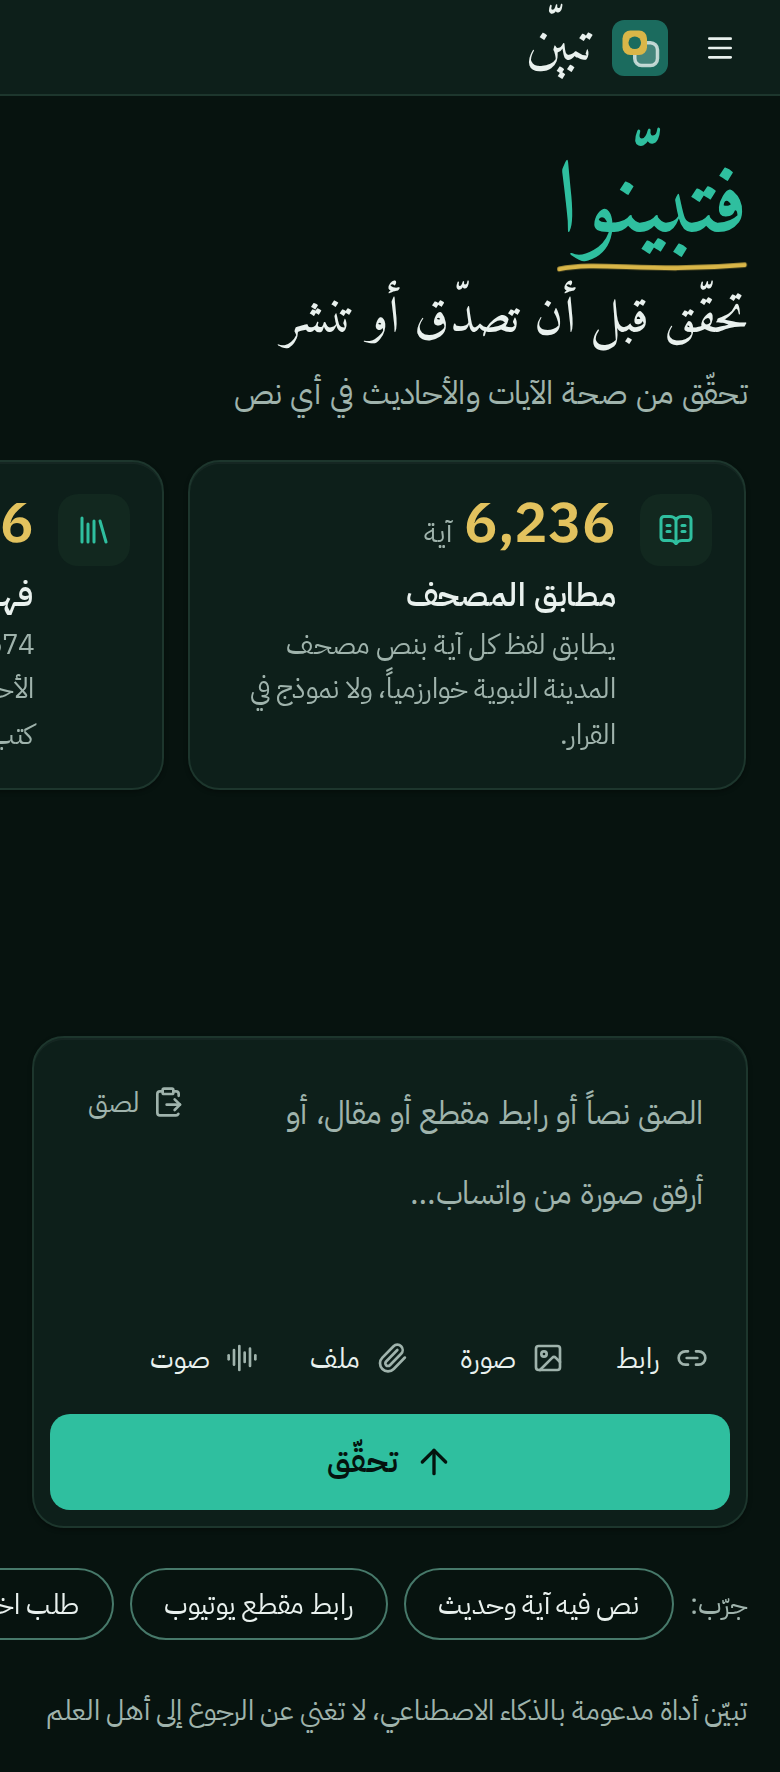
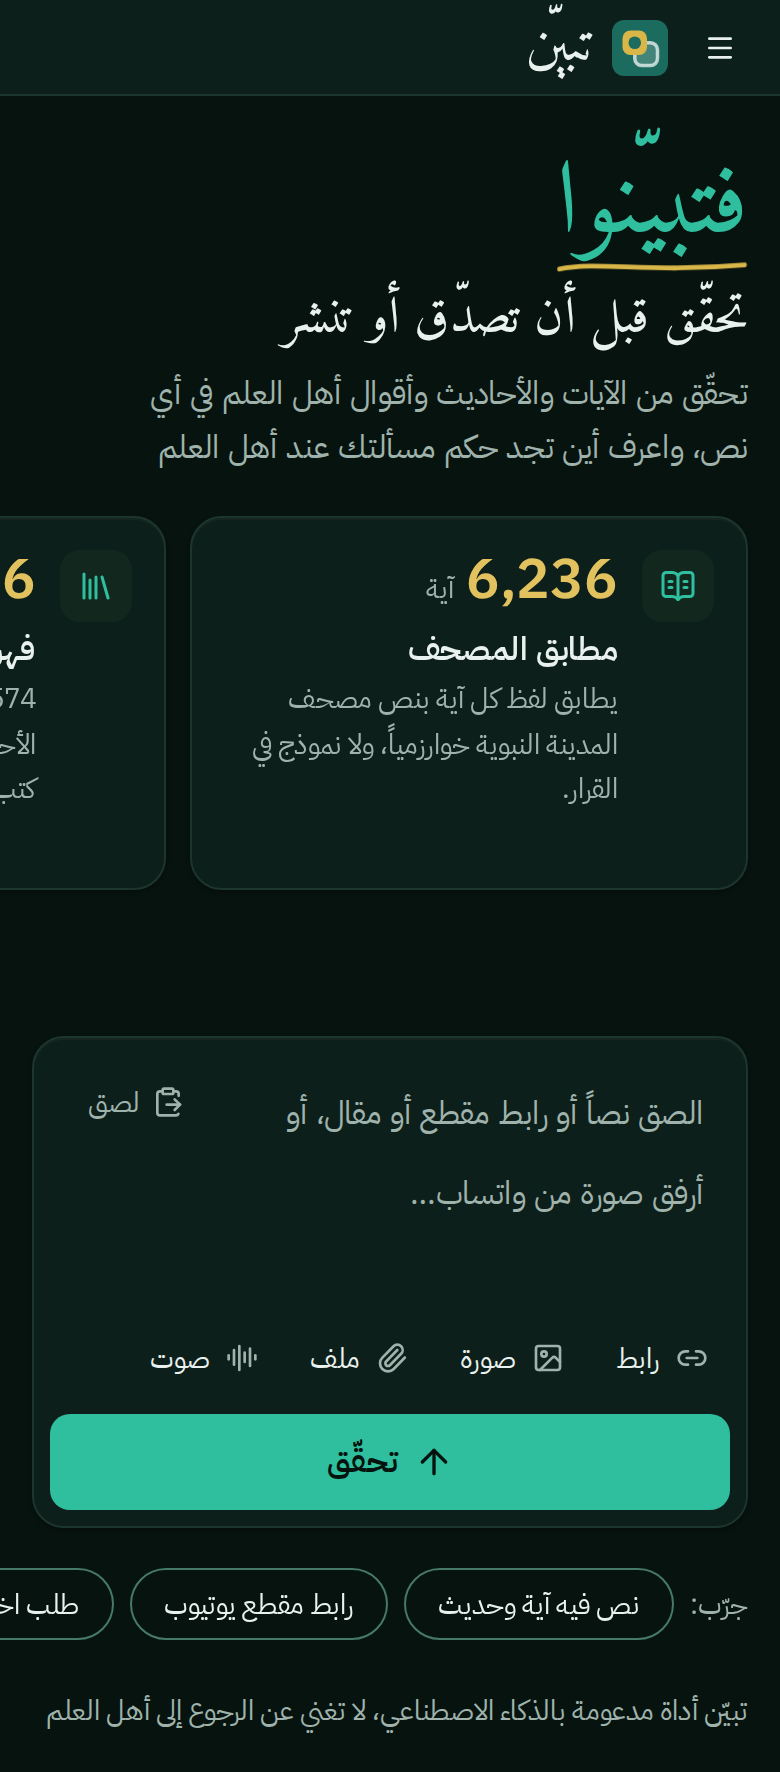
feat(home): two more cards — the scholars' sayings on Shamela, and where to find a ruling (four references)
The desktop column holds six cards, compact (the line in two lines, whole on
hover); the phone row scrolls as before.

Claude-Session: https://claude.ai/code/session_01WkLzYHrQZVwHgWeRF86dxo

diff --git a/frontend/src/components/home/hero.tsx b/frontend/src/components/home/hero.tsx
@@ -1,4 +1,4 @@
-import { BookOpenText, Library, ScrollText, Sparkles } from 'lucide-react'
+import { BookOpenText, GraduationCap, Library, LibraryBig, ScrollText, Sparkles } from 'lucide-react'
 import type { CSSProperties } from 'react'
 
 import { useMediaQuery } from '@/hooks/use-media-query'
@@ -101,6 +101,22 @@ export function EngineCards({ engines, className }: { engines: Engines | undefin
       title: h.gradings.title,
       line: engines.live_gradings ? h.gradings.live : h.gradings.stored,
     },
+    {
+      id: 'shamela',
+      icon: LibraryBig,
+      figure: h.shamela.figure,
+      unit: h.shamela.unit,
+      title: h.shamela.title,
+      line: h.shamela.body,
+    },
+    {
+      id: 'referral',
+      icon: GraduationCap,
+      figure: '4',
+      unit: h.referral.unit,
+      title: h.referral.title,
+      line: h.referral.body,
+    },
   ]
 
   return (
@@ -108,7 +124,7 @@ export function EngineCards({ engines, className }: { engines: Engines | undefin
       <ul
         tabIndex={scrolls ? 0 : undefined}
         aria-label={scrolls ? h.enginesTitle : undefined}
-        className="scroll-row -mx-4 flex snap-x snap-mandatory gap-3 px-4 pb-3 md:mx-0 md:grid md:grid-cols-2 md:gap-4 md:overflow-visible md:px-0 md:pb-0 xl:flex xl:flex-col xl:gap-4"
+        className="scroll-row -mx-4 flex snap-x snap-mandatory gap-3 px-4 pb-3 md:mx-0 md:grid md:grid-cols-2 md:gap-4 md:overflow-visible md:px-0 md:pb-0 xl:flex xl:flex-col xl:gap-2"
       >
         {cards.map((card, i) => {
           const Icon = card.icon
@@ -117,19 +133,21 @@ export function EngineCards({ engines, className }: { engines: Engines | undefin
               key={card.id}
               data-engine={card.id}
               style={{ '--i': i * 2 } as CSSProperties}
-              className="panel cascade flex w-[78%] shrink-0 snap-center gap-3 p-4 md:w-auto"
+              className="panel cascade flex w-[78%] shrink-0 snap-center gap-3 p-4 md:w-auto xl:px-3.5 xl:py-2"
             >
-              <span aria-hidden="true" className="flex size-9 shrink-0 items-center justify-center rounded-control bg-raised text-green">
+              <span aria-hidden="true" className="flex size-9 shrink-0 items-center justify-center rounded-control bg-raised text-green xl:size-8">
                 <Icon className="size-[18px]" />
               </span>
               <div className="min-w-0">
                 {/* The figure is the one loud thing on the card. */}
+                {/* In the desktop column the six cards are compact: the line in two lines (whole on
+                    hover and to a screen reader). */}
                 <p className="flex items-baseline gap-1.5">
-                  <span className="tabular text-[1.75rem] leading-none font-semibold text-figure">{card.figure}</span>
+                  <span className="tabular text-[1.75rem] leading-none font-semibold text-figure xl:text-[1.375rem]">{card.figure}</span>
                   {card.unit ? <span className="text-sm text-quiet">{card.unit}</span> : null}
                 </p>
-                <p className="pt-1.5 text-base font-semibold text-ink">{card.title}</p>
-                <p className="text-sm text-quiet">{card.line}</p>
+                <p className="pt-1.5 text-base font-semibold text-ink xl:pt-0.5">{card.title}</p>
+                <p title={card.line} className="text-sm text-quiet xl:line-clamp-2 xl:pt-1">{card.line}</p>
               </div>
             </li>
           )

diff --git a/frontend/src/lib/dictionary.ar.ts b/frontend/src/lib/dictionary.ar.ts
@@ -125,6 +125,18 @@ export const ar = {
       live: 'تُجلب حيّة من الدرر السنية وتُنقل بنصّها؛ لا يولّد النموذج حكماً.',
       stored: 'تُنقل بنصّها من موسوعة الأحاديث النبوية؛ لا يولّد النموذج حكماً.',
     },
+    // The size is the package's own description of Shamela (page 14): about 8,000 books.
+    shamela: {
+      title: 'أقوال أهل العلم',
+      figure: '8,000',
+      unit: 'كتاب',
+      body: 'يبحث عن القول بنصه في كتب أهل العلم في المكتبة الشاملة، ويعرف قائله ولو لم يُسمَّ.',
+    },
+    referral: {
+      title: 'أين تجد حكم مسألتك',
+      unit: 'مراجع',
+      body: 'لا يفتي: يحيل السؤال إلى أقرب فتوى عند ابن عثيمين، وإلى ابن باز والإسلام سؤال وجواب والموسوعة الفقهية الكويتية.',
+    },
   },
 
   pipeline: {

diff --git a/frontend/src/lib/dictionary.en.ts b/frontend/src/lib/dictionary.en.ts
@@ -50,6 +50,17 @@ export const en: Dictionary = {
         `${graded} narrations with their gradings from HadeethEnc, and ${books} from the hadith books.`,
     },
     units: { verse: 'verses', narration: 'narrations' },
+    shamela: {
+      title: 'Sayings of the scholars',
+      figure: '8,000',
+      unit: 'books',
+      body: 'Finds a saying word for word in the scholars’ books on al-Maktaba al-Shamela, and who said it, even when unnamed.',
+    },
+    referral: {
+      title: 'Where to find a ruling',
+      unit: 'references',
+      body: 'No fatwa: a question goes to the nearest fatwa on Ibn Uthaymeen’s site, and to Ibn Baz, IslamQA and the Kuwaiti encyclopedia.',
+    },
     models: {
       title: 'AI models',
       unit: (n: number) => (n === 1 ? 'model' : 'models'),

diff --git a/frontend/src/App.tsx b/frontend/src/App.tsx
@@ -614,7 +614,7 @@ function Shell() {
                   </div>
                   <EngineCards
                     engines={meta?.engines}
-                    className="max-md:order-2 xl:sticky xl:top-0 xl:col-start-2 xl:row-span-2 xl:row-start-1 xl:self-start xl:pt-[13vh]"
+                    className="max-md:order-2 xl:sticky xl:top-0 xl:col-start-2 xl:row-span-2 xl:row-start-1 xl:self-start xl:pt-[5vh]"
                   />
                 </div>
               )}
